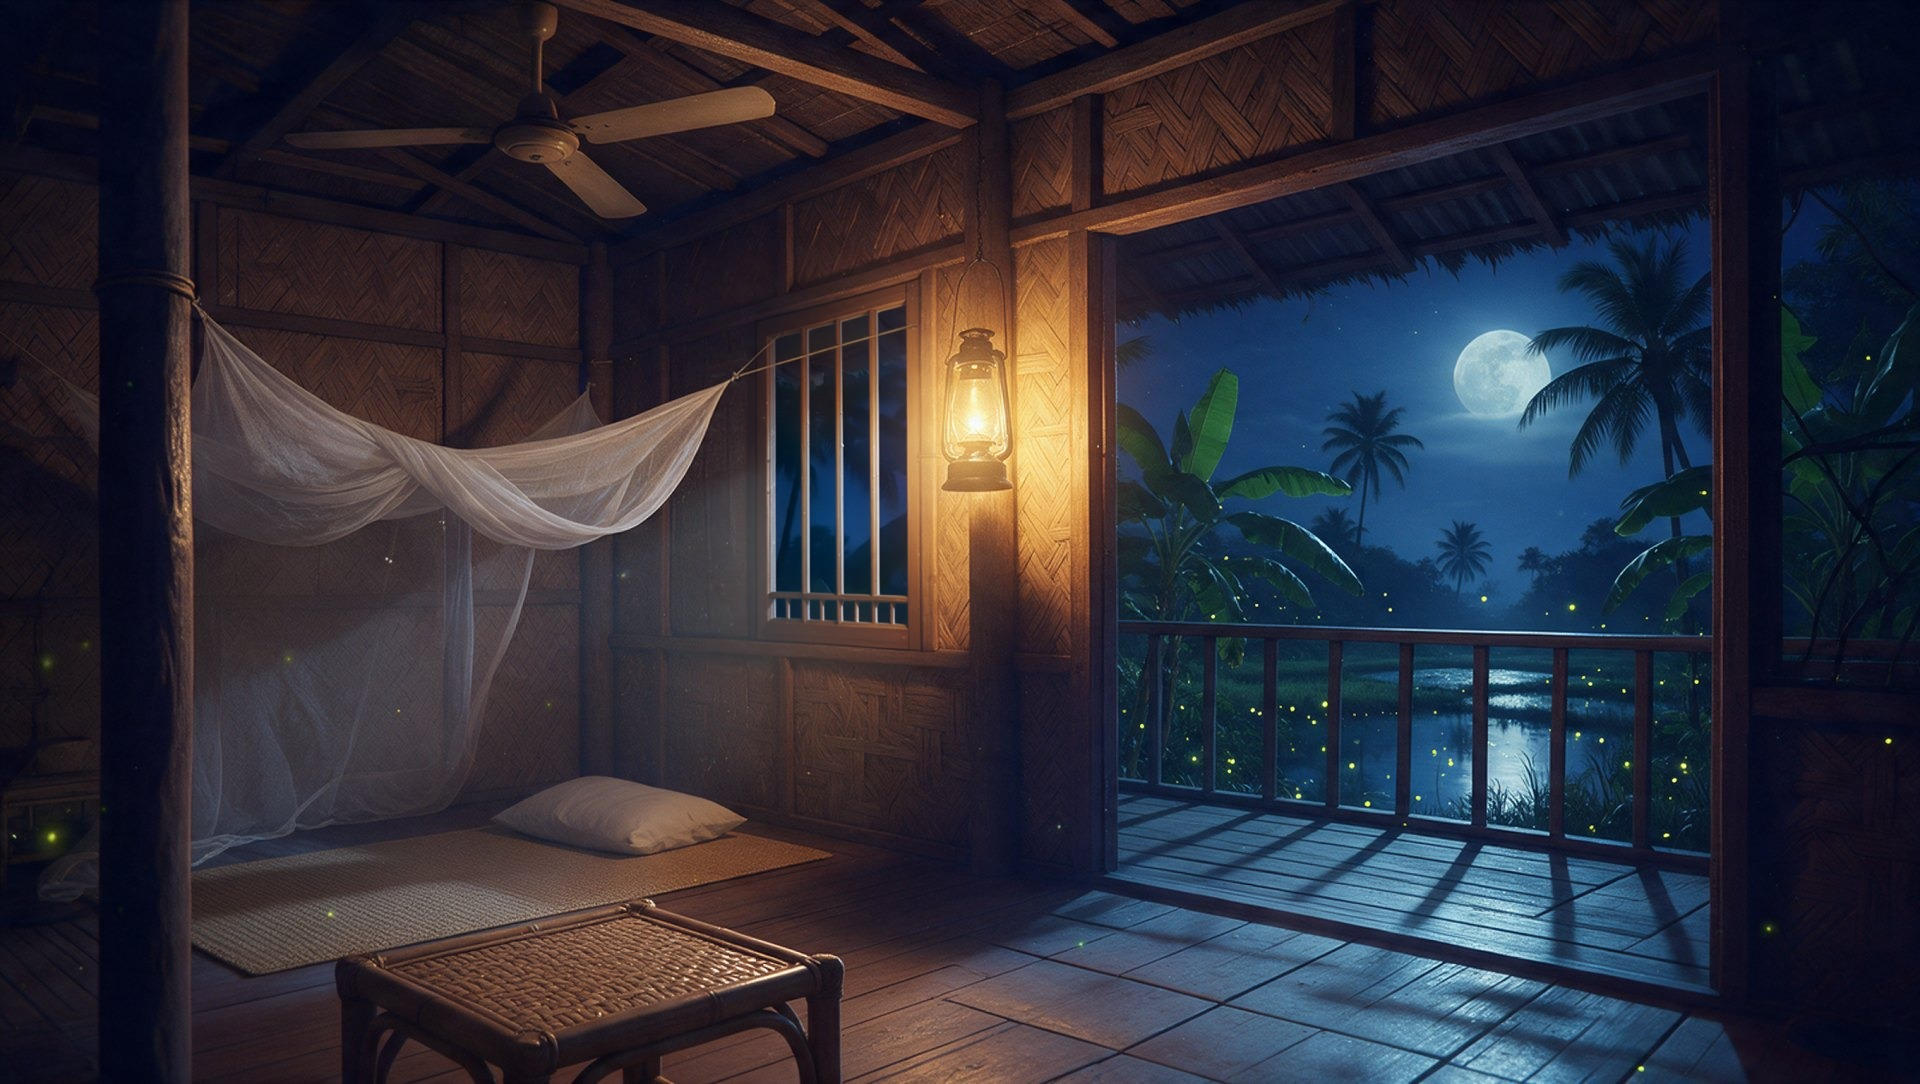
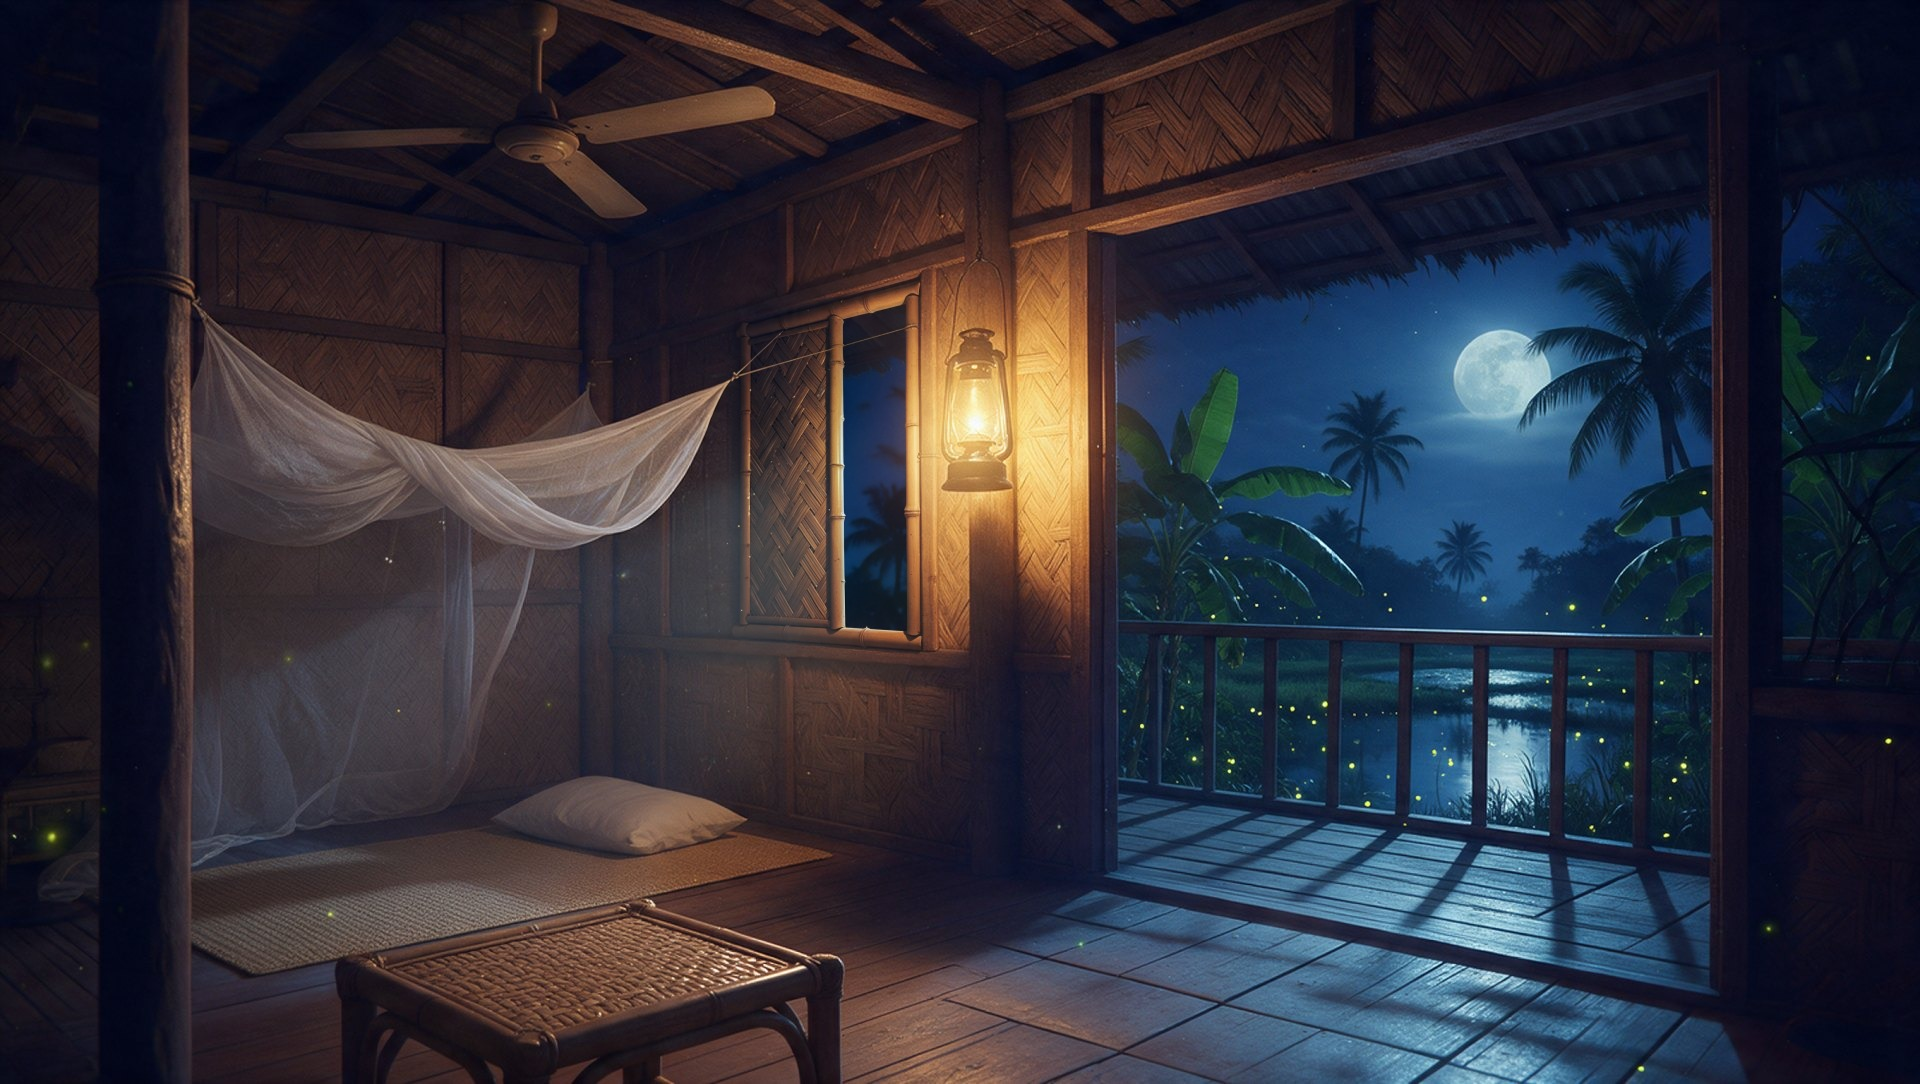
Sea: bamboo window with woven sliding shutter (Seedream 5 Pro), new opening mask
Claude-Session: https://claude.ai/code/session_01WmePPEVtycNtDwciTC66yT

Changed region(s): [[0.375, 0.2435, 0.5, 0.6089]]

diff --git a/public/index.html b/public/index.html
@@ -449,7 +449,7 @@ function framesFor(key){if(!LABFR||!LABFR[key])return null;if(FRM[key])return FR
     return Promise.all([...[...Array(j.n).keys()].flatMap(i=>[loadTex(dir+'/on_'+id(i)+'.jpg'),loadTex(dir+'/off_'+id(i)+'.jpg')]),
       ...[...Array(j.n-1).keys()].flatMap(i=>[loadTex(dir+'/fab_'+id(i)+'.png'),loadTex(dir+'/fba_'+id(i)+'.png')])])}).then(a=>{const m=2*F.n,A=a.slice(0,m),B=a.slice(m);
       F.on=A.filter((_,i)=>i%2==0);F.off=A.filter((_,i)=>i%2==1);F.fab=B.filter((_,i)=>i%2==0);F.fba=B.filter((_,i)=>i%2==1);F.ready=true}).catch(()=>{});return F}
-function texFor(key){if(!cache.has(key))cache.set(key,Promise.all(FILES.map(n=>loadTex(((LAB&&LAB[key])||key)+'/'+n+(/^(out_|mask|plate_|maps)/.test(n)?'?v=25':'')))).then(a=>Object.fromEntries(FILES.map((n,i)=>[n.split('.')[0],a[i]]))));return cache.get(key)}
+function texFor(key){if(!cache.has(key))cache.set(key,Promise.all(FILES.map(n=>loadTex(((LAB&&LAB[key])||key)+'/'+n+(/^(out_|mask|plate_|maps)/.test(n)?'?v=26':'')))).then(a=>Object.fromEntries(FILES.map((n,i)=>[n.split('.')[0],a[i]]))));return cache.get(key)}
 function evict(keep){for(const [k,p] of cache)if(!keep.includes(k)){cache.delete(k);p.then(T=>Object.values(T).forEach(t=>t.dispose()))}}
 const tvCan=document.createElement('canvas');tvCan.width=128;tvCan.height=96;const tvCtx=tvCan.getContext('2d');
 const tTV=new THREE.CanvasTexture(tvCan);tTV.minFilter=THREE.LinearFilter;tTV.generateMipmaps=false;

diff --git a/public/lab.html b/public/lab.html
@@ -450,7 +450,7 @@ function framesFor(key){if(!LABFR||!LABFR[key])return null;if(FRM[key])return FR
     return Promise.all([...[...Array(j.n).keys()].flatMap(i=>[loadTex(dir+'/on_'+id(i)+'.jpg'),loadTex(dir+'/off_'+id(i)+'.jpg')]),
       ...[...Array(j.n-1).keys()].flatMap(i=>[loadTex(dir+'/fab_'+id(i)+'.png'),loadTex(dir+'/fba_'+id(i)+'.png')])])}).then(a=>{const m=2*F.n,A=a.slice(0,m),B=a.slice(m);
       F.on=A.filter((_,i)=>i%2==0);F.off=A.filter((_,i)=>i%2==1);F.fab=B.filter((_,i)=>i%2==0);F.fba=B.filter((_,i)=>i%2==1);F.ready=true}).catch(()=>{});return F}
-function texFor(key){if(!cache.has(key))cache.set(key,Promise.all(FILES.map(n=>loadTex(((LAB&&LAB[key])||key)+'/'+n+(/^(out_|mask|plate_|maps)/.test(n)?'?v=25':'')))).then(a=>Object.fromEntries(FILES.map((n,i)=>[n.split('.')[0],a[i]]))));return cache.get(key)}
+function texFor(key){if(!cache.has(key))cache.set(key,Promise.all(FILES.map(n=>loadTex(((LAB&&LAB[key])||key)+'/'+n+(/^(out_|mask|plate_|maps)/.test(n)?'?v=26':'')))).then(a=>Object.fromEntries(FILES.map((n,i)=>[n.split('.')[0],a[i]]))));return cache.get(key)}
 function evict(keep){for(const [k,p] of cache)if(!keep.includes(k)){cache.delete(k);p.then(T=>Object.values(T).forEach(t=>t.dispose()))}}
 const tvCan=document.createElement('canvas');tvCan.width=128;tvCan.height=96;const tvCtx=tvCan.getContext('2d');
 const tTV=new THREE.CanvasTexture(tvCan);tTV.minFilter=THREE.LinearFilter;tTV.generateMipmaps=false;
